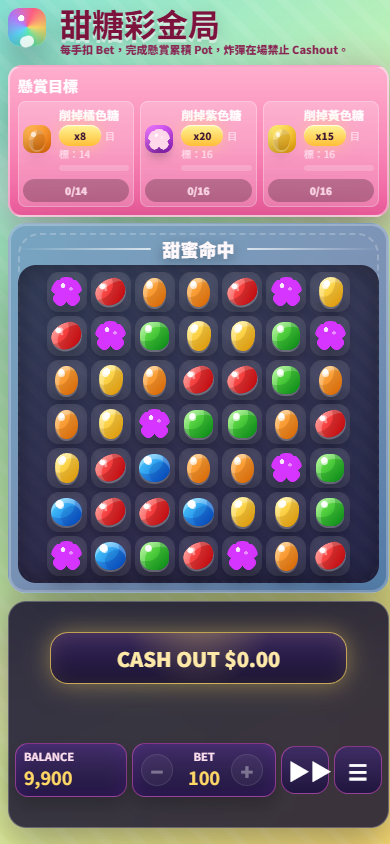
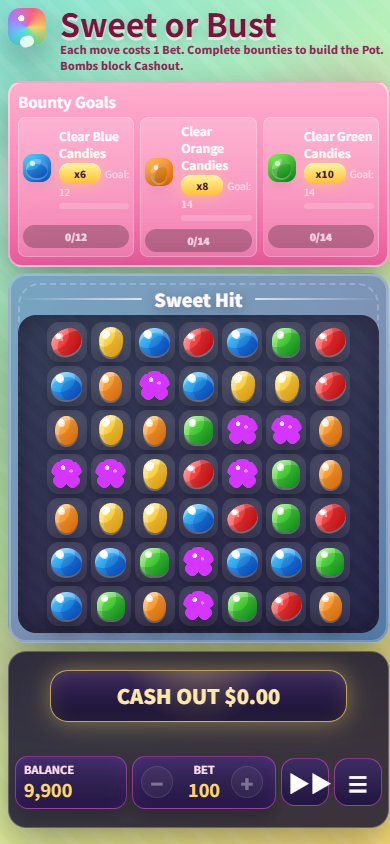
Translate game to English

diff --git a/index.html b/index.html
@@ -1,9 +1,9 @@
 <!DOCTYPE html>
-<html lang="zh-Hant">
+<html lang="en">
 <head>
   <meta charset="utf-8">
   <meta name="viewport" content="width=device-width, initial-scale=1">
-  <title>甜糖彩金局</title>
+  <title>Sweet or Bust</title>
   <style>
     :root {
       --bg-top: #87e3d4;
@@ -952,8 +952,8 @@
       <div class="brand">
         <div class="logo" aria-hidden="true"></div>
         <div>
-          <h1>甜糖彩金局</h1>
-          <p class="tagline">每手扣 Bet，完成懸賞累積 Pot，炸彈在場禁止 Cashout。</p>
+          <h1>Sweet or Bust</h1>
+          <p class="tagline">Each move costs 1 Bet. Complete bounties to build the Pot. Bombs block Cashout.</p>
         </div>
       </div>
     </header>
@@ -961,17 +961,17 @@
     <main>
       <aside class="side">
         <section class="mission-panel">
-          <h2>懸賞目標</h2>
+          <h2>Bounty Goals</h2>
           <div id="missions"></div>
         </section>
       </aside>
 
-      <section class="stage" aria-label="糖果盤面">
-        <div class="board-title"><span class="line"></span><b id="banner">拖曳開局</b><span class="line"></span></div>
+      <section class="stage" aria-label="Candy board">
+        <div class="board-title"><span class="line"></span><b id="banner">Drag to Start</b><span class="line"></span></div>
         <div class="board-wrap">
           <div class="board" id="board" aria-live="polite"></div>
           <div class="float-layer" id="floatLayer"></div>
-          <div class="praise" id="praise">漂亮連鎖！</div>
+          <div class="praise" id="praise">Sweet Chain!</div>
         </div>
       </section>
     </main>
@@ -986,19 +986,19 @@
         <button class="round-btn" id="betUp">+</button>
       </div>
       <div class="bet-card intro">
-        <strong>遊戲介紹</strong>
-        每次移動扣 1 Bet。消除不賠付，只累積懸賞；完成懸賞後 Pot 增加。炸彈在場時不能 Cashout。
+        <strong>How to Play</strong>
+        Each move costs 1 Bet. Clears do not pay directly; they progress bounties. Complete bounties to grow the Pot. Bombs on the board block Cashout.
       </div>
       <div class="actions">
         <button class="icon-action" id="hintBtn">▶▶</button>
         <button class="icon-action" id="resetBtn">☰</button>
-        <button hidden id="shuffleBtn">洗牌</button>
+        <button hidden id="shuffleBtn">Shuffle</button>
       </div>
     </section>
     <div hidden>
       <i id="eventMeter"></i>
       <span id="eventText"></span>
-      <strong id="toastTitle">準備</strong>
+      <strong id="toastTitle">Ready</strong>
       <span id="toastText"></span>
       <span id="roundScore">0</span>
       <span id="jar">0</span>
@@ -1025,23 +1025,23 @@
     const floatLayer = document.querySelector("#floatLayer");
     const praise = document.querySelector("#praise");
     const colors = [
-      { id: "red", label: "紅色", value: 10, color: "#f42325", fill: "linear-gradient(135deg,#ff726a,#e50009)", shape: "bean", weight: 22 },
-      { id: "blue", label: "藍色", value: 12, color: "#1789f4", fill: "linear-gradient(135deg,#55d8ff,#005bdc)", shape: "pill", weight: 21 },
-      { id: "orange", label: "橘色", value: 13, color: "#ff8b16", fill: "linear-gradient(135deg,#ffc05f,#f26d00)", shape: "oval", weight: 20 },
-      { id: "green", label: "綠色", value: 15, color: "#20c92d", fill: "linear-gradient(135deg,#84f65a,#079616)", shape: "square", weight: 19 },
-      { id: "yellow", label: "黃色", value: 18, color: "#ffd21f", fill: "linear-gradient(135deg,#fff37f,#f5a600)", shape: "drop", weight: 18 },
-      { id: "purple", label: "紫色", value: 22, color: "#c83cff", fill: "linear-gradient(135deg,#f07cff,#9f1bd8)", shape: "crown", weight: 17 }
+      { id: "red", label: "Red", value: 10, color: "#f42325", fill: "linear-gradient(135deg,#ff726a,#e50009)", shape: "bean", weight: 22 },
+      { id: "blue", label: "Blue", value: 12, color: "#1789f4", fill: "linear-gradient(135deg,#55d8ff,#005bdc)", shape: "pill", weight: 21 },
+      { id: "orange", label: "Orange", value: 13, color: "#ff8b16", fill: "linear-gradient(135deg,#ffc05f,#f26d00)", shape: "oval", weight: 20 },
+      { id: "green", label: "Green", value: 15, color: "#20c92d", fill: "linear-gradient(135deg,#84f65a,#079616)", shape: "square", weight: 19 },
+      { id: "yellow", label: "Yellow", value: 18, color: "#ffd21f", fill: "linear-gradient(135deg,#fff37f,#f5a600)", shape: "drop", weight: 18 },
+      { id: "purple", label: "Purple", value: 22, color: "#c83cff", fill: "linear-gradient(135deg,#f07cff,#9f1bd8)", shape: "crown", weight: 17 }
     ];
     const quests = [
-      { color: "yellow", title: "削掉黃色糖", need: 18, progress: 0, done: false, multiplier: 5 },
-      { color: "purple", title: "削掉紫色糖", need: 16, progress: 0, done: false, multiplier: 10 },
-      { color: "green", title: "削掉綠色糖", need: 14, progress: 0, done: false, multiplier: 20 }
+      { color: "yellow", title: "Clear Yellow Candies", need: 18, progress: 0, done: false, multiplier: 5 },
+      { color: "purple", title: "Clear Purple Candies", need: 16, progress: 0, done: false, multiplier: 10 },
+      { color: "green", title: "Clear Green Candies", need: 14, progress: 0, done: false, multiplier: 20 }
     ];
     const questPool = [
       ["red", 12, 5], ["blue", 12, 6], ["orange", 14, 8],
       ["green", 14, 10], ["yellow", 16, 15], ["purple", 16, 20]
     ];
-    const praiseLines = ["漂亮連鎖！", "大獎手感！", "甜蜜暴擊！", "彩金要來了！"];
+    const praiseLines = ["Sweet Chain!", "Jackpot Feeling!", "Sweet Hit!", "Big Pot Incoming!"];
 
     let grid = [];
     let tiles = [];
@@ -1207,8 +1207,8 @@
       renderMissions();
       refreshAllQuests();
       updateHud();
-      setToast("準備開局", "每次移動扣 1 Bet，消除只累積懸賞；完成懸賞會把倍率獎勵累積到 Pot。");
-      document.querySelector("#banner").textContent = "拖曳開局";
+      setToast("Ready to Play", "Each move costs 1 Bet. Clears only progress bounties; multiplier rewards are added to the Pot.");
+      document.querySelector("#banner").textContent = "Drag to Start";
     }
 
     function createCleanGrid() {
@@ -1282,34 +1282,34 @@
           if (changedKeys.has(key(r, c))) tile.classList.add("falling");
           tile.style.color = cell.type === "rainbow" ? "#fff" : color.color;
           tile.style.setProperty("--fill", cell.type === "rainbow" ? "conic-gradient(#ff4f7b,#ffe45d,#4ff0ba,#55d7ff,#b76cff,#ff4f7b)" : color.fill);
-          tile.setAttribute("aria-label", cell.type === "rainbow" ? "彩虹糖" : `${color.label} ${specialName(cell.type)}`.trim());
+          tile.setAttribute("aria-label", cell.type === "rainbow" ? "Rainbow Candy" : `${color.label} ${specialName(cell.type)}`.trim());
           tile.innerHTML = `<span class="candy shape-${cell.type === "rainbow" ? "bomb" : color.shape}"></span>`;
         }
       }
     }
 
     function specialName(type) {
-      if (type === "stripedH" || type === "stripedV") return "條紋糖";
-      if (type === "wrapped") return "包裝糖";
-      if (type === "rainbow") return "彩虹糖";
+      if (type === "stripedH" || type === "stripedV") return "Striped Candy";
+      if (type === "wrapped") return "Wrapped Candy";
+      if (type === "rainbow") return "Rainbow Candy";
       return "";
     }
 
     function updateHud() {
-      document.querySelector("#score").textContent = score.toLocaleString("zh-TW");
+      document.querySelector("#score").textContent = score.toLocaleString("en-US");
       document.querySelector("#moves").textContent = "∞";
       document.querySelector("#combo").textContent = "x" + combo;
-      document.querySelector("#roundScore").textContent = roundScore.toLocaleString("zh-TW");
+      document.querySelector("#roundScore").textContent = roundScore.toLocaleString("en-US");
       document.querySelector("#jar").textContent = jar;
-      document.querySelector("#balance").textContent = balance.toLocaleString("zh-TW");
-      document.querySelector("#bet").textContent = bet.toLocaleString("zh-TW");
+      document.querySelector("#balance").textContent = balance.toLocaleString("en-US");
+      document.querySelector("#bet").textContent = bet.toLocaleString("en-US");
       const betLocked = totalMoves > 0;
       document.querySelector("#betDown").disabled = betLocked;
       document.querySelector("#betUp").disabled = betLocked;
-      document.querySelector("#payout").textContent = payout.toLocaleString("zh-TW");
+      document.querySelector("#payout").textContent = payout.toLocaleString("en-US");
       const cashoutButton = document.querySelector("#cashoutBtn");
       if (cashoutButton) {
-        cashoutButton.textContent = `CASH OUT $${cashout.toLocaleString("zh-TW")}.00`;
+        cashoutButton.textContent = `CASH OUT $${cashout.toLocaleString("en-US")}.00`;
         const locked = hasBombOnBoard();
         cashoutButton.classList.toggle("ready", cashout > 0 && !locked);
         cashoutButton.classList.toggle("locked", locked);
@@ -1318,8 +1318,8 @@
       }
       document.querySelector("#eventMeter").style.width = Math.min(100, eventEnergy) + "%";
       document.querySelector("#eventText").textContent = sugarRush
-        ? "糖雨已充能：下一次成功交換會混入條紋糖。"
-        : "消除會累積糖雨能量。";
+        ? "Sugar Rush charged: the next successful swap will add striped candies."
+        : "Clears build Sugar Rush energy.";
     }
 
     function renderMissions() {
@@ -1331,7 +1331,7 @@
         row.className = "quest";
         row.innerHTML = `
           <div class="mini" style="color:${color.color};background:${color.fill}"><span class="candy shape-${color.shape}"></span></div>
-          <div><strong>${q.title}</strong><span><b class="multiplier">x${q.multiplier}</b>目標：${q.need}</span><div class="bar"><i style="width:${Math.min(100, q.progress / q.need * 100)}%"></i></div></div>
+          <div><strong>${q.title}</strong><span><b class="multiplier">x${q.multiplier}</b>Goal: ${q.need}</span><div class="bar"><i style="width:${Math.min(100, q.progress / q.need * 100)}%"></i></div></div>
           <span class="badge">${Math.min(q.progress, q.need)}/${q.need}</span>
         `;
         wrap.appendChild(row);
@@ -1393,7 +1393,7 @@
     async function tryMove(a, b) {
       if (busy || gameOver || !inside(b)) return;
       if (balance < bet) {
-        setToast("餘額不足", "餘額不足以支付本次壓注，請降低 BET 或提款後重開。");
+        setToast("Not Enough Balance", "Not enough balance for this Bet. Lower the Bet or cash out before starting a new round.");
         return;
       }
       busy = true;
@@ -1423,15 +1423,15 @@
         swap(a, b);
         syncBoard();
         playSound("fail");
-        setToast("沒有消除", `本次移動已扣 ${bet}，換個方向湊三消。`);
-        document.querySelector("#banner").textContent = "再試一手";
+        setToast("No Match", `This move cost ${bet}. Try another direction to make a match.`);
+        document.querySelector("#banner").textContent = "Try Again";
         busy = false;
         return;
       }
       if (comboEffect) await resolveSpecialEffect(comboEffect, "SPECIAL COMBO");
       await resolveCascade(findMatches(), { source: b, alternateSource: a });
       if (!findMove()) {
-        setToast("自動洗牌", "盤面沒有可交換組合，保留懸賞進度重新排列。");
+        setToast("Auto Shuffle", "No valid swaps remain. The board was reshuffled and bounty progress was kept.");
         shuffleGrid();
       }
       busy = false;
@@ -1443,16 +1443,16 @@
       const first = grid[b.r][b.c];
       const second = grid[a.r][a.c];
       if (!isSpecial(first) && !isSpecial(second)) return null;
-      if (first.type === "rainbow" && second.type === "rainbow") return { cells: allCells(), title: "彩虹清盤" };
+      if (first.type === "rainbow" && second.type === "rainbow") return { cells: allCells(), title: "Rainbow Board Clear" };
       if (first.type === "rainbow") return withSwapCells(rainbowEffect(first, second), a, b);
       if (second.type === "rainbow") return withSwapCells(rainbowEffect(second, first), a, b);
       if (first.type === "stripedH" || first.type === "stripedV" || second.type === "stripedH" || second.type === "stripedV") {
-        if (first.type === "wrapped" || second.type === "wrapped") return withSwapCells({ cells: bigCross(a), title: "條紋包裝爆" }, a, b);
-        return withSwapCells({ cells: uniqueCells([...rowCells(a.r), ...colCells(a.c)]), title: "雙條紋爆" }, a, b);
+        if (first.type === "wrapped" || second.type === "wrapped") return withSwapCells({ cells: bigCross(a), title: "Striped Wrapped Blast" }, a, b);
+        return withSwapCells({ cells: uniqueCells([...rowCells(a.r), ...colCells(a.c)]), title: "Double Striped Blast" }, a, b);
       }
-      if (first.type === "wrapped" && second.type === "wrapped") return withSwapCells({ cells: radiusCells(a, 2), title: "雙包裝爆" }, a, b);
-      if (first.type === "wrapped") return withSwapCells({ cells: radiusCells(b, 1), title: "包裝爆" }, a, b);
-      if (second.type === "wrapped") return withSwapCells({ cells: radiusCells(a, 1), title: "包裝爆" }, a, b);
+      if (first.type === "wrapped" && second.type === "wrapped") return withSwapCells({ cells: radiusCells(a, 2), title: "Double Wrapped Blast" }, a, b);
+      if (first.type === "wrapped") return withSwapCells({ cells: radiusCells(b, 1), title: "Wrapped Blast" }, a, b);
+      if (second.type === "wrapped") return withSwapCells({ cells: radiusCells(a, 1), title: "Wrapped Blast" }, a, b);
       return null;
     }
 
@@ -1464,14 +1464,14 @@
       if (other.type === "stripedH" || other.type === "stripedV") {
         const same = cellsOfColor(other.color);
         same.forEach(cell => grid[cell.r][cell.c].type = Math.random() > 0.5 ? "stripedH" : "stripedV");
-        return { cells: uniqueCells(same.flatMap(cell => grid[cell.r][cell.c].type === "stripedH" ? rowCells(cell.r) : colCells(cell.c))), title: "彩虹條紋爆" };
+        return { cells: uniqueCells(same.flatMap(cell => grid[cell.r][cell.c].type === "stripedH" ? rowCells(cell.r) : colCells(cell.c))), title: "Rainbow Striped Blast" };
       }
       if (other.type === "wrapped") {
         const same = cellsOfColor(other.color);
         same.forEach(cell => grid[cell.r][cell.c].type = "wrapped");
-        return { cells: uniqueCells(same.flatMap(cell => radiusCells(cell, 1))), title: "彩虹包裝爆" };
+        return { cells: uniqueCells(same.flatMap(cell => radiusCells(cell, 1))), title: "Rainbow Wrapped Blast" };
       }
-      return { cells: cellsOfColor(other.color), title: "彩虹同色爆" };
+      return { cells: cellsOfColor(other.color), title: "Rainbow Color Blast" };
     }
 
     async function resolveSpecialEffect(effect, fallbackTitle) {
@@ -1485,7 +1485,7 @@
       updateQuests(removed);
       addFloat(`+${earned}`, averagePoint(removed));
       playSound("special", 2);
-      setToast("特殊糖引爆", `${effect.title || fallbackTitle} 削掉 ${removed.length} 顆，懸賞進度已累積。`);
+      setToast("Special Candy Blast", `${effect.title || fallbackTitle} cleared ${removed.length} candies. Bounty progress was added.`);
       updateHud();
       renderMissions();
       await removeAndCollapse(removed);
@@ -1507,10 +1507,10 @@
         eventEnergy += expanded.length * 2 + chain * 4;
         updateQuests(expanded);
         if (special) grid[special.r][special.c] = makeCell(special.color, special.type);
-        document.querySelector("#banner").textContent = chain === 1 ? "甜蜜命中" : `連鎖 ${chain}`;
-        addFloat("消除", averagePoint(expanded.length ? expanded : matches.cells));
+        document.querySelector("#banner").textContent = chain === 1 ? "Sweet Hit" : `Chain ${chain}`;
+        addFloat("Clear", averagePoint(expanded.length ? expanded : matches.cells));
         playSound(chain === 1 ? "clear" : "combo", chain);
-        setToast(chain === 1 ? "成功消除" : "連鎖消除", `削掉 ${expanded.length} 顆，沒有直接賠付，進度累積到懸賞。`);
+        setToast(chain === 1 ? "Clear Hit" : "Chain Clear", `Cleared ${expanded.length} candies. No direct payout; progress goes to bounties.`);
         updateHud();
         renderMissions();
         await removeAndCollapse(expanded);
@@ -1654,7 +1654,7 @@
           roundScore += bonus;
           cashout += bonus;
           playSound("goal");
-          setToast("倍率懸賞", `${q.title} 完成，BET x${q.multiplier} = +${bonus}，已累積到 Pot。`);
+          setToast("Multiplier Bounty", `${q.title} complete. BET x${q.multiplier} = +${bonus} added to the Pot.`);
           refreshQuest(index);
         }
       });
@@ -1675,7 +1675,7 @@
       const colorInfo = colorById(color);
       quests[index] = {
         color,
-        title: `削掉${colorInfo.label}糖`,
+        title: `Clear ${colorInfo.label} Candies`,
         need,
         progress: 0,
         done: false,
@@ -1686,18 +1686,18 @@
     function collectCashout() {
       ensureAudio();
       if (hasBombOnBoard()) {
-        setToast("炸彈鎖定", "場上有炸彈，必須先消除炸彈才能 Cashout。");
+        setToast("Bomb Locked", "A bomb is on the board. Clear every bomb before Cashout.");
         playSound("fail");
         return;
       }
       if (cashout <= 0 || busy) {
-        setToast("尚無可領取", "完成消除或倍率懸賞後，Cashout 會累積可提款金額。");
+        setToast("Nothing to Cash Out", "Complete bounty goals to build your Cashout amount.");
         playSound("fail");
         return;
       }
       balance += cashout;
       payout += cashout;
-      setToast("成功領取", `已領取本輪 Pot ${cashout}，已加入餘額。`);
+      setToast("Cashout Complete", `You cashed out this round's Pot: ${cashout}. It has been added to Balance.`);
       cashout = 0;
       playSound("goal");
       updateHud();
@@ -1772,7 +1772,7 @@
       cashout = 0;
       payout = 0;
       document.querySelector("#banner").textContent = "GAME OVER";
-      setToast("GAME OVER", "炸彈倒數歸零，遊戲結束，Pot 已歸零。請開新局繼續。");
+      setToast("GAME OVER", "A bomb reached 0. Game over. The Pot was reset. Start a new round to continue.");
       playSound("fail");
       updateHud();
     }
@@ -1792,7 +1792,7 @@
       clearSelection();
       tiles[move.from.r][move.from.c].classList.add("selected");
       tiles[move.to.r][move.to.c].classList.add("selected");
-      setToast("提示", "發光的兩顆可以交換，提示不扣 Bet。");
+      setToast("Hint", "The highlighted candies can be swapped. Hints do not cost Bet.");
       playSound("swap");
       setTimeout(clearSelection, 900);
     }
@@ -1807,7 +1807,7 @@
       }
       if (findMatches().cells.length || !findMove()) createCleanGrid();
       syncBoard(allCells());
-      document.querySelector("#banner").textContent = "盤面洗牌";
+      document.querySelector("#banner").textContent = "Board Shuffled";
       updateHud();
     }
 
@@ -1833,8 +1833,8 @@
     }
 
     function endGame() {
-      document.querySelector("#banner").textContent = "餘額不足";
-      setToast("餘額不足", "本局沒有步數限制，但需要足夠餘額才能繼續移動。");
+      document.querySelector("#banner").textContent = "Not Enough Balance";
+      setToast("Not Enough Balance", "There is no move limit, but you need enough Balance to keep moving.");
     }
 
     function animateSwap(a, b) {
@@ -1971,7 +1971,7 @@
       ensureAudio();
       if (!busy) {
         shuffleGrid();
-        setToast("洗牌", "盤面重新排列，不扣 Bet。");
+        setToast("Shuffle", "The board was rearranged. No Bet was charged.");
         playSound("swap");
       }
     });

diff --git a/README.md b/README.md
@@ -1,6 +1,6 @@
 # Sweet or Bust
 
-一款糖果主題的 crush / cashout 博弈原型。
+A candy-themed crush / cashout gambling prototype.
 
 ## Play
 
@@ -16,4 +16,3 @@ Open `index.html` in a browser.
 - Bombs have 5 turns. Each move reduces the countdown by 1.
 - If a bomb reaches 0, the game ends and the Pot is reset.
 - Bet is locked after the first move until a new game starts.
-
